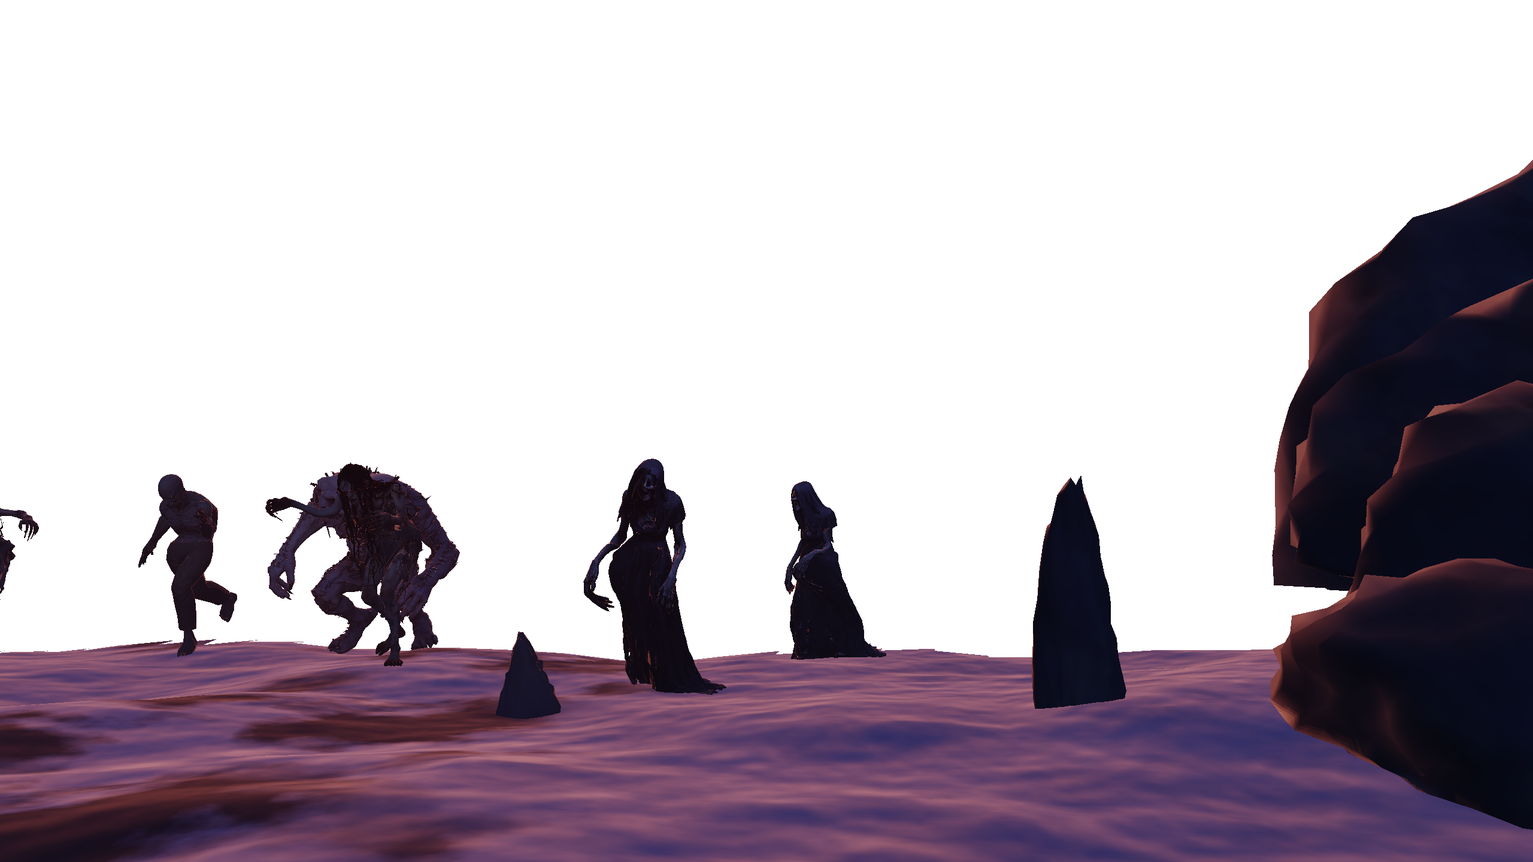
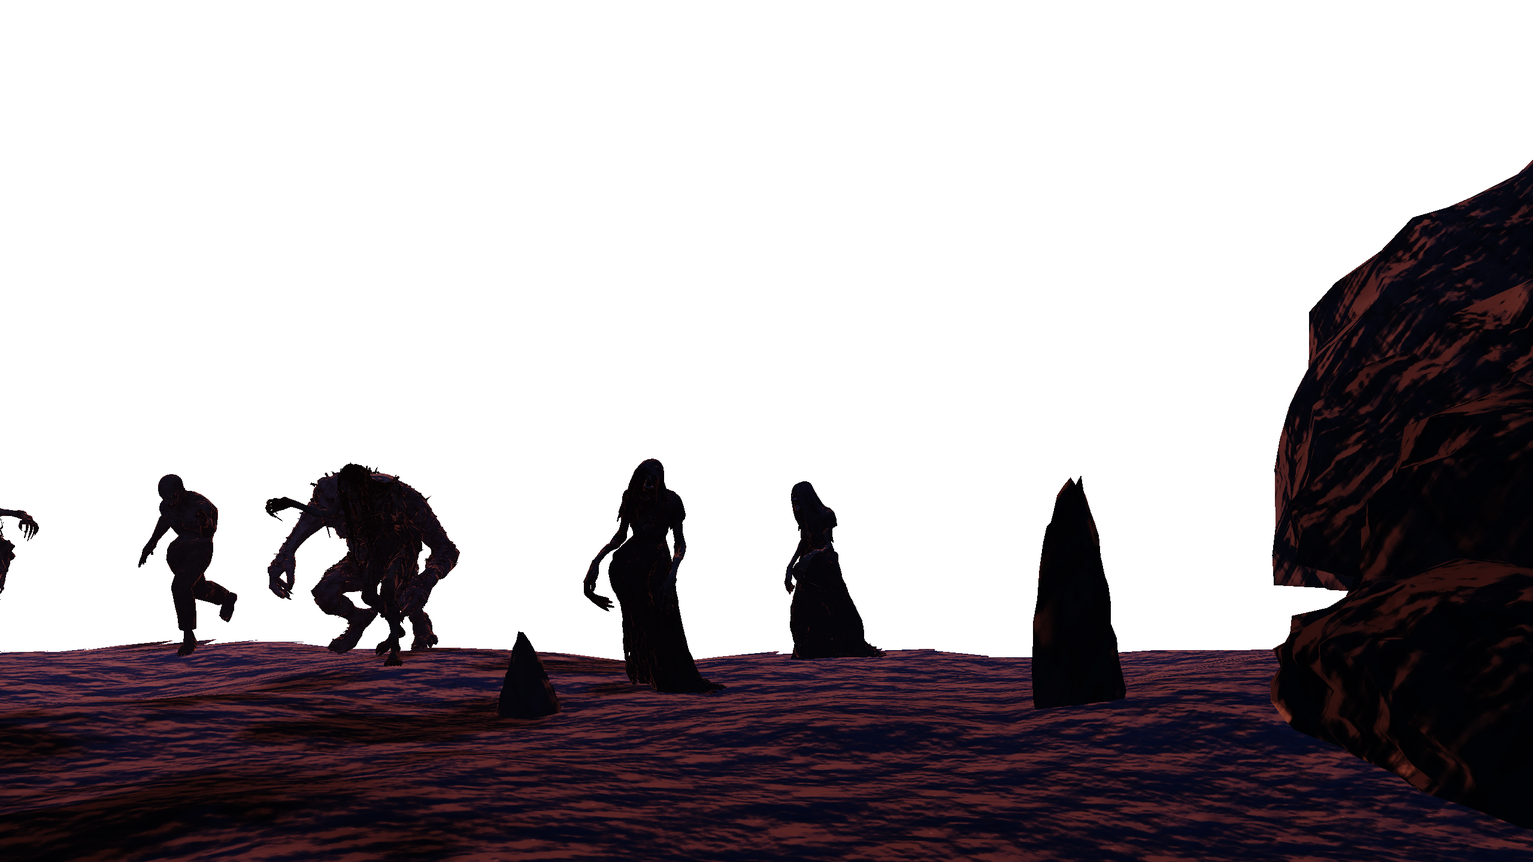
Main menu: ground fog that rolls and churns in three banks, a darker foreground, finer relief and grime on snow, stone and the undead, a quieter moon with craters, moonlight across the range, the Milky Way and many more stars (twinkling), shooting stars, forked lightning striking the far peaks; spel
Claude-Session: https://claude.ai/code/session_01XygewZTgx3ZFWTg4ffda8j

diff --git a/src/Hud.cpp b/src/Hud.cpp
@@ -1104,6 +1104,7 @@ float4 main(float4 pos : SV_POSITION, float4 col : COLOR0, float2 uv : TEXCOORD0
 		ID3D11ShaderResourceView* g_mFar = nullptr;
 		ID3D11ShaderResourceView* g_mMid = nullptr;
 		ID3D11ShaderResourceView* g_mNear = nullptr;
+		ID3D11ShaderResourceView* g_mGroundFog = nullptr;  // fog wisps that tile left-right (tools/menuscene.py ground_fog)
 		constexpr float kMenuRune[2] = { 1812.0f, 992.0f };  // the middle of the rune-stone's face in the painting
 		constexpr float kMenuArch[2] = { 1176.0f, 455.0f };  // the barrow door
 		ID3D11ShaderResourceView* g_mTitle = nullptr;
@@ -1227,8 +1228,63 @@ float4 main(float4 pos : SV_POSITION, float4 col : COLOR0, float2 uv : TEXCOORD0
 			{
 				const ImVec2 m = toScreen(0.2f, 0.255f * 2560, 0.315f * 1440);
 				const float  br = 0.5f + 0.5f * std::sin(now * 0.6f);
-				fg->AddCircleFilled(m, 150 * k, IM_COL32(255, 90, 60, static_cast<int>((10 + 8 * br) * fade)), 48);
-				fg->AddCircleFilled(m, 80 * k, IM_COL32(255, 120, 80, static_cast<int>((10 + 8 * br) * fade)), 48);
+				fg->AddCircleFilled(m, 130 * k, IM_COL32(255, 90, 60, static_cast<int>((4 + 4 * br) * fade)), 48);
+				fg->AddCircleFilled(m, 72 * k, IM_COL32(255, 120, 80, static_cast<int>((5 + 4 * br) * fade)), 48);
+			}
+			// the brightest stars twinkle, and now and then a shooting star crosses the sky
+			{
+				struct Star { float x, y, ph, sp, sz; };
+				static std::vector<Star> stars;
+				static std::mt19937 sr{ 23 };
+				std::uniform_real_distribution<float> U(0, 1);
+				if (stars.empty()) {
+					while (stars.size() < 46) {
+						const float x = U(sr), y = 0.02f + 0.40f * U(sr) * U(sr);
+						if (std::hypot((x - 0.255f) * 16.0f / 9.0f, y - 0.315f) < 0.16f || (x > 0.2f && x < 0.8f && y < 0.2f)) {
+							continue;  // clear of the moon and the title
+						}
+						stars.push_back({ x, y, U(sr) * 6.28f, 0.8f + 2.6f * U(sr), 0.7f + 1.3f * U(sr) * U(sr) });
+					}
+				}
+				for (const auto& st : stars) {
+					const ImVec2 p = toScreen(0.2f, st.x * 2560, st.y * 1440);
+					const float  tw = std::pow(0.5f + 0.5f * std::sin(now * st.sp + st.ph), 3.0f);
+					const float  r = (1.2f + 2.6f * st.sz * tw) * k;
+					const int    al = static_cast<int>((60 + 170 * tw) * fade);
+					fg->AddLine({ p.x - r * 2.2f, p.y }, { p.x + r * 2.2f, p.y }, IM_COL32(205, 220, 255, al / 2), 1.0f * k);
+					fg->AddLine({ p.x, p.y - r * 2.2f }, { p.x, p.y + r * 2.2f }, IM_COL32(205, 220, 255, al / 2), 1.0f * k);
+					fg->AddCircleFilled(p, std::max(0.8f * k, r * 0.45f), IM_COL32(235, 240, 255, al), 8);
+				}
+				static float nextShoot = 4.0f, shootT = -1.0f;
+				static ImVec2 s0{}, sd{};
+				if (shootT < 0 && now > nextShoot) {
+					shootT = 0;
+					const float dir = U(sr) < 0.5f ? 1.0f : -1.0f;
+					s0 = { size.x * (0.15f + 0.7f * U(sr)), size.y * (0.04f + 0.18f * U(sr)) };
+					sd = { dir * size.x * (0.22f + 0.12f * U(sr)), size.y * (0.10f + 0.08f * U(sr)) };
+					nextShoot = now + 7.0f + 10.0f * U(sr);
+				}
+				if (shootT >= 0) {
+					shootT += dt;
+					const float life = 0.85f, t = shootT / life;
+					if (t >= 1.0f) {
+						shootT = -1;
+					} else {
+						const float  head = EaseOut(std::min(1.0f, t * 1.15f));
+						const float  bright = std::sin(std::clamp(t, 0.0f, 1.0f) * 3.14159f) * fade;
+						const ImVec2 h{ s0.x + sd.x * head, s0.y + sd.y * head };
+						for (int i = 0; i < 14; ++i) {  // the tail: brightest at the head, fading back
+							const float a0 = head - 0.022f * i, a1 = head - 0.022f * (i + 1);
+							if (a1 < 0) {
+								break;
+							}
+							const int al = static_cast<int>(230 * bright * (1.0f - i / 14.0f));
+							fg->AddLine({ s0.x + sd.x * a0, s0.y + sd.y * a0 }, { s0.x + sd.x * a1, s0.y + sd.y * a1 }, IM_COL32(220, 230, 255, al), (2.2f - 0.12f * i) * k);
+						}
+						fg->AddCircleFilled(h, 4.5f * k, IM_COL32(200, 215, 255, static_cast<int>(60 * bright)), 12);
+						fg->AddCircleFilled(h, 1.8f * k, IM_COL32(255, 255, 255, static_cast<int>(255 * bright)), 8);
+					}
+				}
 			}
 			if (g_mAurora) {
 				for (int band = 0; band < 2; ++band) {
@@ -1237,29 +1293,70 @@ float4 main(float4 pos : SV_POSITION, float4 col : COLOR0, float2 uv : TEXCOORD0
 				}
 			}
 			layer(g_mClouds, 0.25f, IM_COL32(255, 255, 255, static_cast<int>(200 * fade)), { std::fmod(now * 0.0035f, 1.0f), 0 });
-			// a far lightning flash now and then, lighting the clouds from behind the mountains (short, never bright)
+			// lightning: now and then a forked bolt strikes the far range (drawn behind it, so the peaks cut it off), the
+			// clouds flaring with it; it flickers a few times and is gone
 			{
-				static float next = 9.0f, life = 0;
+				static float next = 6.0f, life = 0;
 				static std::mt19937 lr{ 11 };
+				static std::vector<std::vector<ImVec2>> bolt;  // painting pixels: the main channel, then its forks
 				std::uniform_real_distribution<float> L(0, 1);
 				if (now > next && life <= 0) {
-					life = 0.42f;
-					next = now + 11.0f + 12.0f * L(lr);
+					life = 0.55f;
+					next = now + 9.0f + 11.0f * L(lr);
+					bolt.clear();
+					const float x0 = 2560 * (0.40f + 0.52f * L(lr));
+					std::vector<ImVec2> main{ { x0, 1440 * 0.05f } };
+					float x = x0, y = 1440 * 0.05f;
+					while (y < 1440 * 0.47f) {
+						y += 1440 * (0.012f + 0.02f * L(lr));
+						x += (L(lr) - 0.5f) * 70.0f;
+						main.push_back({ x, y });
+						if (L(lr) < 0.16f && bolt.size() < 4) {  // a fork wanders off and dies out
+							std::vector<ImVec2> fork{ { x, y } };
+							float fx = x, fy = y;
+							const float side = L(lr) < 0.5f ? -1.0f : 1.0f;
+							for (int i = 0, n = 3 + static_cast<int>(L(lr) * 5); i < n; ++i) {
+								fy += 1440 * (0.01f + 0.015f * L(lr));
+								fx += side * (14.0f + 40.0f * L(lr));
+								fork.push_back({ fx, fy });
+							}
+							bolt.push_back(std::move(fork));
+						}
+					}
+					bolt.insert(bolt.begin(), std::move(main));
 				}
 				if (life > 0) {
 					life -= dt;
-					const float flick = (life > 0.30f || (life > 0.12f && life < 0.2f)) ? 1.0f : 0.25f;
-					fg->AddRectFilledMultiColor({ 0, 0 }, { size.x, size.y * 0.5f }, IM_COL32(170, 190, 235, static_cast<int>(20 * flick)), IM_COL32(170, 190, 235, static_cast<int>(20 * flick)),
-						IM_COL32(170, 190, 235, 0), IM_COL32(170, 190, 235, 0));
+					const float flick = (life > 0.43f || (life > 0.26f && life < 0.33f) || (life > 0.08f && life < 0.13f)) ? 1.0f : (life > 0 ? 0.18f : 0.0f);
+					fg->AddRectFilledMultiColor({ 0, 0 }, { size.x, size.y * 0.55f }, IM_COL32(170, 190, 240, static_cast<int>(26 * flick * fade)), IM_COL32(170, 190, 240, static_cast<int>(26 * flick * fade)),
+						IM_COL32(170, 190, 240, 0), IM_COL32(170, 190, 240, 0));
+					for (std::size_t b = 0; b < bolt.size(); ++b) {
+						const float w = b == 0 ? 1.0f : 0.55f;
+						for (std::size_t i = 1; i < bolt[b].size(); ++i) {
+							const ImVec2 p0 = toScreen(0.45f, bolt[b][i - 1].x, bolt[b][i - 1].y), p1 = toScreen(0.45f, bolt[b][i].x, bolt[b][i].y);
+							fg->AddLine(p0, p1, IM_COL32(120, 140, 255, static_cast<int>(40 * flick * fade)), 14.0f * w * k);
+							fg->AddLine(p0, p1, IM_COL32(170, 190, 255, static_cast<int>(110 * flick * fade)), 5.0f * w * k);
+							fg->AddLine(p0, p1, IM_COL32(240, 245, 255, static_cast<int>(255 * flick * fade)), 1.8f * w * k);
+						}
+					}
 				}
 			}
 			// the far range, then mist drifting in the valley in front of it
 			layer(g_mFar, 0.45f, white);
-			if (g_menuFog) {
-				const float u0 = now * 0.006f;
-				fg->AddImage(ImTextureID(reinterpret_cast<std::uintptr_t>(g_menuFog)), { 0, size.y * 0.30f }, { size.x, size.y * 0.58f }, { u0, 0 }, { u0 + 1.4f, 0.8f },
-					IM_COL32(120, 135, 175, static_cast<int>(55 * fade)));
-			}
+			// fog rolling over the ground: two copies of the wisps sliding past each other at different speeds, so it
+			// churns as it drifts (valley fog here, ground fog over the slope, a thick bank across the front)
+			auto groundFog = [&](float y0, float y1, float speed, float rep, int al, ImU32 rgb) {
+				ID3D11ShaderResourceView* t = g_mGroundFog ? g_mGroundFog : g_menuFog;
+				if (!t) {
+					return;
+				}
+				const auto tex = ImTextureID(reinterpret_cast<std::uintptr_t>(t));
+				const float u0 = std::fmod(now * speed, 1.0f), u1 = std::fmod(-now * speed * 0.63f + 0.37f, 1.0f);
+				const float bob = std::sin(now * 0.21f) * 0.012f * size.y;
+				fg->AddImage(tex, { 0, y0 + bob }, { size.x, y1 + bob }, { u0, 0 }, { u0 + rep, 1 }, (rgb & 0x00FFFFFF) | (static_cast<ImU32>(al * 0.6f * fade) << 24));
+				fg->AddImage(tex, { 0, y0 - bob * 0.6f + (y1 - y0) * 0.08f }, { size.x, y1 }, { u1, 0 }, { u1 + rep * 0.7f, 1 }, (rgb & 0x00FFFFFF) | (static_cast<ImU32>(al * 0.5f * fade) << 24));
+			};
+			groundFog(size.y * 0.30f, size.y * 0.56f, 0.006f, 1.6f, 120, IM_COL32(120, 135, 175, 0));
 			// the barrow ridge and the horde coming down it; the champions' violet light in the barrow door breathing
 			layer(g_mMid, 0.8f, white);
 			{
@@ -1268,13 +1365,9 @@ float4 main(float4 pos : SV_POSITION, float4 col : COLOR0, float2 uv : TEXCOORD0
 				fg->AddCircleFilled(a, 90 * k, IM_COL32(150, 80, 255, static_cast<int>(10 * br * fade)), 40);
 			}
 			// ground mist rolling between the horde and the front
-			if (g_menuFog) {
-				const float u0 = -now * 0.008f;
-				fg->AddImage(ImTextureID(reinterpret_cast<std::uintptr_t>(g_menuFog)), { 0, size.y * 0.50f }, { size.x, size.y * 0.80f }, { u0, 0.1f }, { u0 + 1.1f, 0.9f },
-					IM_COL32(110, 125, 165, static_cast<int>(70 * fade)));
-			}
+			groundFog(size.y * 0.42f, size.y * 0.82f, 0.009f, 1.2f, 150, IM_COL32(110, 122, 160, 0));
 			// the front: the rune-stone (its runes pulse, a soft violet light on the snow), the graves, the outcrop
-			layer(g_mNear, 1.25f, white);
+			layer(g_mNear, 1.25f, IM_COL32(215, 215, 222, static_cast<int>(255 * fade)));  // the front sits in shadow
 			{
 				// the runes cut down its face, lit from within: each glows up in turn, the light spilling onto the snow
 				const ImVec2 r = toScreen(1.25f, kMenuRune[0], kMenuRune[1]);
@@ -1296,11 +1389,7 @@ float4 main(float4 pos : SV_POSITION, float4 col : COLOR0, float2 uv : TEXCOORD0
 					}
 				}
 			}
-			if (g_menuFog) {  // near mist, the other way
-				const float u0 = now * 0.004f;
-				fg->AddImage(ImTextureID(reinterpret_cast<std::uintptr_t>(g_menuFog)), { 0, size.y * 0.74f }, { size.x, size.y }, { u0, 0 }, { u0 + 0.9f, 0.7f },
-					IM_COL32(100, 115, 150, static_cast<int>(80 * fade)));
-			}
+			groundFog(size.y * 0.66f, size.y * 1.02f, 0.013f, 0.9f, 170, IM_COL32(88, 98, 130, 0));  // the thick bank across the front, darker
 			// snow and grave-ash drifting down on the wind, a few soul-motes rising from the rune-stone
 			{
 				struct Mote { float x, y, sp, sway, ph, r; int kind; };
@@ -1820,7 +1909,7 @@ float4 main(float4 pos : SV_POSITION, float4 col : COLOR0, float2 uv : TEXCOORD0
 			const bool bg = SUCCEEDED(DirectX::CreateWICTextureFromFile(g_device, L"Data\\Interface\\UndyingNights\\menu_bg.png", nullptr, &g_menuBg));
 			DirectX::CreateWICTextureFromFile(g_device, L"Data\\Interface\\UndyingNights\\menu_fog.png", nullptr, &g_menuFog);
 			for (auto [file, tex] : { std::pair{ L"menu_sky.jpg", &g_mSky }, { L"menu_clouds.png", &g_mClouds }, { L"menu_aurora.png", &g_mAurora },
-					 { L"menu_far.png", &g_mFar }, { L"menu_mid.png", &g_mMid }, { L"menu_near.png", &g_mNear } }) {
+					 { L"menu_far.png", &g_mFar }, { L"menu_mid.png", &g_mMid }, { L"menu_near.png", &g_mNear }, { L"menu_groundfog.png", &g_mGroundFog } }) {
 				DirectX::CreateWICTextureFromFile(g_device, (std::wstring(L"Data\\Interface\\UndyingNights\\") + file).c_str(), nullptr, tex);
 			}
 			DirectX::CreateWICTextureFromFile(g_device, L"Data\\Interface\\UndyingNights\\menu_title.png", nullptr, &g_mTitle);

diff --git a/tools/menupaint.py b/tools/menupaint.py
@@ -65,16 +65,32 @@ def sky():
     col = top + (mid - top) * smooth(0.0, 0.55, v)[..., None] + (low - mid) * smooth(0.45, 0.85, v)[..., None]
     # moon glow: a wide red-orange bloom, a tight halo ring
     d = np.sqrt((xx - MOON[0]) ** 2 + (yy - MOON[1]) ** 2) / MOON_R
-    bloom = np.exp(-((d - 0.0) / 9.0) ** 2) * 0.55 + np.exp(-((d - 0.0) / 3.2) ** 2) * 0.5
-    ring = np.exp(-((d - 2.35) / 0.18) ** 2) * 0.08
+    bloom = np.exp(-((d - 0.0) / 7.0) ** 2) * 0.22 + np.exp(-((d - 0.0) / 2.4) ** 2) * 0.26   # a quieter glow (Noah: less shine)
+    ring = np.exp(-((d - 2.35) / 0.18) ** 2) * 0.04
     col = col + (bloom[..., None] * np.array([0.33, 0.10, 0.06])) + ring[..., None] * np.array([0.9, 0.5, 0.4])
-    # stars, fewer near the moon and the horizon
-    st = R.random((H, W))
-    mask = (st > 0.9993) * smooth(0.75, 0.2, v) * smooth(3.0, 9.0, d)
-    stars = np.asarray(Image.fromarray((mask * 255).astype(np.uint8)).filter(ImageFilter.GaussianBlur(0.6)), np.float32) / 255 * 2.2
-    tw = R.random((H, W)) > 0.99985
-    big = np.asarray(Image.fromarray((tw * smooth(0.7, 0.2, v) * smooth(4, 10, d) * 255).astype(np.uint8)).filter(ImageFilter.GaussianBlur(1.4)), np.float32) / 255 * 5
-    col = col + (stars + big)[..., None] * np.array([0.85, 0.9, 1.0])
+    # the Milky Way: a faint band of dust and light slanting across the sky, dark lanes through it
+    band_c = 0.20 + 0.55 * (xx / W)                                                       # its centre line (v) along x
+    bd = np.exp(-((v - band_c * 0.62) / 0.11) ** 2) * smooth(0.8, 0.25, v) * smooth(2.5, 7.0, d)
+    dust = fbm(H, W, 7, 6, seed=71); lanes = smooth(0.42, 0.62, fbm(H, W, 6, 10, seed=72))
+    col = col + (bd * (0.35 + 0.65 * dust) * (1 - 0.7 * lanes))[..., None] * np.array([0.050, 0.055, 0.080])
+    # stars in every size and colour, many more inside the band, fewer by the moon and the horizon
+    vis = smooth(0.78, 0.2, v) * smooth(3.0, 9.0, d)
+    stars = np.zeros((H, W, 3), np.float32)
+    tints = np.array([[0.75, 0.85, 1.0], [1.0, 1.0, 1.0], [1.0, 0.92, 0.75], [1.0, 0.75, 0.6]])
+    for mag, (dens, blur, gain) in enumerate(((0.0011, 0.45, 0.8), (0.0004, 0.6, 1.7), (0.00018, 0.9, 3.2), (0.00003, 1.4, 6.0))):
+        m = (R.random((H, W)) < dens * (1 + 2.5 * bd)) * vis
+        g = np.asarray(Image.fromarray((m * 255).astype(np.uint8)).filter(ImageFilter.GaussianBlur(blur)), np.float32) / 255 * gain
+        tint = tints[R.integers(0, 4, (H, W))]
+        stars += g[..., None] * tint
+    # the brightest few with a soft cross of light
+    for _ in range(14):
+        sx_, sy_ = R.uniform(0.04, 0.96) * W, R.uniform(0.03, 0.42) * H
+        if np.hypot(sx_ - MOON[0], sy_ - MOON[1]) < MOON_R * 6:
+            continue
+        dx_, dy_ = np.abs(xx - sx_), np.abs(yy - sy_)
+        spk = (np.exp(-dy_ / 0.8) * np.exp(-dx_ / 14) + np.exp(-dx_ / 0.8) * np.exp(-dy_ / 14)) * 0.9 + np.exp(-(dx_ ** 2 + dy_ ** 2) / 5.0) * 2.5
+        stars += spk[..., None] * tints[R.integers(0, 3)]
+    col = col + stars * np.array([0.85, 0.9, 1.0])
     # cloud banks: fbm, thicker low, lit on the moon side (simple self-shadow: compare with a copy shifted toward the moon)
     n = fbm(H, W, 7, 3, seed=5)
     n2 = fbm(H, W, 5, 6, seed=9)
@@ -88,8 +104,19 @@ def sky():
     # the moon itself: a crimson disc with mottled maria, limb darkening, a soft edge
     m = np.clip(1.2 - d, 0, 1); disc = smooth(1.02, 0.98, d)
     mar = fbm(H, W, 5, 24, seed=21)
-    face = np.array([0.95, 0.42, 0.26]) * (0.72 + 0.28 * smooth(0.35, 0.65, mar))[..., None] * (0.55 + 0.45 * np.sqrt(np.clip(1 - d ** 2, 0, 1)))[..., None]
-    face = face + np.array([0.25, 0.15, 0.1]) * smooth(0.6, 0.0, d)[..., None]
+    mar2 = fbm(H, W, 6, 60, seed=22)
+    face = np.array([0.95, 0.42, 0.26]) * (0.62 + 0.26 * smooth(0.35, 0.65, mar) + 0.18 * (mar2 - 0.5))[..., None] * (0.50 + 0.50 * np.sqrt(np.clip(1 - d ** 2, 0, 1)))[..., None]
+    # craters: dark floors, a bright rim on the lit (lower right) side, a few rays from the biggest
+    cr = np.zeros((H, W), np.float32)
+    rr = np.random.default_rng(23)
+    for _ in range(20):
+        ca = rr.uniform(0, 2 * np.pi); cd = np.sqrt(rr.uniform(0, 0.85)); csz = rr.uniform(0.04, 0.16) * (1.3 if rr.random() < 0.15 else 1)
+        cx_, cy_ = MOON[0] + np.cos(ca) * cd * MOON_R, MOON[1] + np.sin(ca) * cd * MOON_R
+        q = np.sqrt((xx - cx_) ** 2 + (yy - cy_) ** 2) / (csz * MOON_R)
+        side = ((xx - cx_) + (yy - cy_)) / (csz * MOON_R + 1e-3)
+        cr += -0.10 * smooth(1.0, 0.2, q) + 0.08 * np.exp(-((q - 1.0) / 0.25) ** 2) * np.clip(side, 0, 1)
+    face = face * (1 + cr * disc)[..., None]
+    face = face + np.array([0.18, 0.10, 0.07]) * smooth(0.6, 0.0, d)[..., None]
     col = col * (1 - disc[..., None]) + face * disc[..., None]
     # a thin cloud bar across the moon's lower half
     bar = smooth(0.62, 0.8, fbm(H, W, 5, 10, seed=33)) * np.exp(-((yy - (MOON[1] + MOON_R * 0.35)) / (MOON_R * 0.25)) ** 2) * smooth(2.2, 0.0, d)
@@ -128,7 +155,7 @@ def range_layer(seed, base_y, amp, octs, rough, haze, snow=0.0, ridged=True, xsc
     top = base_y - prof * amp
     a = smooth(top - 1.5, top + 1.5, yy)
     # surface detail: ridged noise as a height field, its x-gradient as the light
-    hf = fbm(H, W, 7, int(12 * xscale), seed=seed + 1, ridged=True)
+    hf = fbm(H, W, 9, int(12 * xscale), seed=seed + 1, ridged=True)
     gx = np.gradient(hf, axis=1) * 60 + np.gradient(hf, axis=0) * 25
     light = np.clip(0.45 - gx * rough, 0, 1)
     depth = np.clip((yy - top) / (amp * 1.2 + 1), 0, 1)
@@ -136,8 +163,15 @@ def range_layer(seed, base_y, amp, octs, rough, haze, snow=0.0, ridged=True, xsc
     if snow > 0:
         sn = smooth(0.45, 0.6, hf + (1 - depth) * snow * 0.6) * (1 - depth) ** 1.5
         rock = rock * (1 - sn[..., None]) + (np.array([0.42, 0.44, 0.52]) * (0.35 + 0.95 * light)[..., None] + np.array([0.12, 0.04, 0.02]) * light[..., None]) * sn[..., None]
+    # the moon's light across the range: faces turned up-left take a red-gold wash, strongest under the moon
+    under = np.exp(-((xx - MOON[0]) / (W * 0.30)) ** 2) * 0.75 + 0.25
+    moonlit = np.clip(-gx * rough * 1.6, 0, 1) * (1 - depth) ** 0.8 * under
+    rock = rock + moonlit[..., None] * MOONLIGHT * 0.55
+    # strata and scree: finer detail in the rock and snow
+    st = fbm(H, W, 6, int(40 * xscale), seed=seed + 7)
+    rock = rock * (0.82 + 0.36 * st)[..., None]
     # rim light along the crest from the moon side
-    rim = np.exp(-((yy - top) / 3.0) ** 2) * smooth(0.0, 1.0, light)
+    rim = np.exp(-((yy - top) / 3.0) ** 2) * smooth(0.0, 1.0, light) * (0.6 + 0.8 * under)
     rock = rock + rim[..., None] * np.array([0.35, 0.16, 0.12])
     # haze: stronger lower down (fog pooling in the valleys)
     hz = np.clip(haze + depth * 0.35, 0, 0.95)

diff --git a/tools/menuscene.py b/tools/menuscene.py
@@ -121,6 +121,33 @@ def stone(pw):
     snowcap = np.clip((n2 - 0.35) * 3, 0, 1) * 0.0
     return c
 
+NT3 = noise_tex(1024, 17, beta=2.1)   # detail noise: grit, pores, cracks (smooth enough not to sparkle)
+
+
+def relief(scale, amp, grime=0.0, sparkle=0.0, crack=0.0):
+    """surface detail in world space: a bump from layered noise (its gradient tilts the normal), grime darkening the
+    hollows, ice glints on snow, dark crack lines on stone"""
+    def h(p):
+        x, y, z = p[..., 0], p[..., 1], p[..., 2]
+        return (sample(NT3, x + z * 0.61, y - z * 0.47, scale) * 0.6 + sample(NT, x * 1.9 - z * 0.8, y * 1.9 + z * 0.9, scale * 1.7) * 0.4)
+    def f(pw, nv, alb):
+        e = scale * 0.05
+        h0 = h(pw)
+        g = np.stack([(h(pw + np.array([e, 0, 0])) - h0) / e, (h(pw + np.array([0, e, 0])) - h0) / e, (h(pw + np.array([0, 0, e])) - h0) / e], -1)
+        g = g - (g * nv).sum(-1, keepdims=True) * nv
+        n2 = nv - g * (scale * amp)
+        n2 = n2 / (np.linalg.norm(n2, axis=-1, keepdims=True) + 1e-9)
+        a2 = alb * (1 - grime + grime * 2 * np.clip(h0, 0, 1))[..., None]
+        if crack > 0:
+            c = np.abs(sample(NT3, pw[..., 0] + pw[..., 2], pw[..., 1] - pw[..., 2] * 0.3, scale * 3.0) - 0.5)
+            a2 = a2 * (1 - crack * np.clip(1 - c / 0.025, 0, 1))[..., None]
+        if sparkle > 0:
+            gl = np.clip((sample(NT3, pw[..., 0] * 2.3, pw[..., 1] * 2.3, scale) - 0.965) * 25, 0, 1)
+            a2 = a2 + sparkle * gl[..., None]
+        return n2, a2
+    return f
+
+
 MTN = None
 def far_mountains(sc):
     global MTN
@@ -153,7 +180,7 @@ def build():
     T = np.r_[np.c_[a_, b_, c_], np.c_[a_, c_, d_]]
     cy = V[T].mean(1)[:, 1]
     for it, lay in ((sc.add(V, T[cy < 760], UV, proc=snow), 'near'), (sc.add(V, T[cy >= 700], UV, proc=snow), 'mid')):
-        it.layer = lay; it.nfun = ground_n
+        it.layer = lay; it.nfun = ground_n; it.detail = relief(60, 0.22, grime=0.08, sparkle=0.35)
     rng = np.random.default_rng(31)
     # the barrow: an arch of standing slabs on the ridge, a lintel, a broken capstone, stones round it
     ax, ay = -560.0, 2650.0; az = float(ground_h(np.array(ax), np.array(ay)))
@@ -163,14 +190,15 @@ def build():
         V = V @ Rm.T
         z = float(ground_h(np.array(x), np.array(y)))
         it = sc.add(V + np.array([x, y, z + sz * 0.2 - 4]), T, UV, proc=stone); it.layer = layer
+        it.detail = relief(90, 0.55, grime=0.35, crack=0.45)
         return it
     s1 = slab(1, ax - 190, ay, 62, 52, 290, 8, (0, -3))
     s2 = slab(2, ax + 190, ay + 20, 64, 54, 300, -6, (0, 4))
     top = min(s1.V[:, 2].max(), s2.V[:, 2].max()) - az - 12
     lin = S.rock_mesh(3, 290, 60, 50, sub=3, rough=0.5)
-    sc.add(lin[0] + np.array([ax, ay + 10, az + top + 10]), lin[1], lin[2], proc=stone).layer = 'mid'
+    _it = sc.add(lin[0] + np.array([ax, ay + 10, az + top + 10]), lin[1], lin[2], proc=stone); _it.layer = 'mid'; _it.detail = relief(90, 0.55, grime=0.35, crack=0.45)
     cap = S.rock_mesh(4, 110, 60, 56, sub=2)
-    sc.add(cap[0] @ S.rot((0, 1, 0), 25).T + np.array([ax - 50, ay + 10, az + top + 62]), cap[1], cap[2], proc=stone).layer = 'mid'
+    _it = sc.add(cap[0] @ S.rot((0, 1, 0), 25).T + np.array([ax - 50, ay + 10, az + top + 62]), cap[1], cap[2], proc=stone); _it.layer = 'mid'; _it.detail = relief(90, 0.55, grime=0.35, crack=0.45)
     for i, (dx, dy, hh) in enumerate([(-420, 60, 160), (-300, -40, 110), (340, -30, 150), (470, 80, 200), (620, 0, 100), (-600, 140, 120)]):
         slab(10 + i, ax + dx, ay + dy, 36 + rng.uniform(-6, 8), 30, hh, rng.uniform(-30, 30), (rng.uniform(-6, 6), rng.uniform(-8, 8)))
     # the rune-stone of the Dirge, in front, with glowing runes (a separate emissive strip down its face)
@@ -212,6 +240,7 @@ def build():
         sc.add_model(m, posed, S.place(x, y, z - 2, yaw, scale), emit=emit)
         for it in sc.items[n0:]:
             it.layer = layer
+            it.detail = relief(22, 0.3, grime=0.3)   # rot, grit and torn skin over the model's own maps
     # champions: the lich in the barrow door, staff raised; the knight and the king leading the horde down the ridge
     put('lich', 'lich', ax + 10, ay - 40, 190, 1.15)
     put('knight', 'knight', -360, 1650, 200, 1.12)
@@ -258,6 +287,8 @@ def shade(sc, layer, D, G, camv, sm, rw, rh):
     mie = np.clip((-V * MOON_DIR).sum(-1), 0, 1) ** 8
     fc = FOG_C + np.array([0.26, 0.07, 0.04]) * mie[..., None]
     col = col * (1 - fog[..., None]) + fc * fog[..., None]
+    if layer == 'near':  # the foreground sits in shadow: darker the closer it is, so the eye goes to the horde
+        col = col * (0.28 + 0.72 * np.clip((dist - 300) / 1400, 0, 1) ** 1.3)[..., None]
     col = tonemap(col)
     return np.where(hit[..., None], col, 0), hit.astype(np.float32)
 
@@ -308,12 +339,26 @@ def post(col, a, size, G=None):
     return Image.fromarray((np.clip(np.dstack([C2, A2]), 0, 1) * 255).astype(np.uint8), 'RGBA')
 
 
+def ground_fog(w=1024, h=256):
+    """the fog that rolls over the ground: wisps that tile left-right (the menu scrolls two copies against each other),
+    thin at the top edge, thick low down"""
+    a1 = noise_tex(1024, 91, beta=2.2); a2 = noise_tex(1024, 92, beta=1.7)
+    x = np.arange(w)[None, :] / w; y = np.arange(h)[:, None] / h
+    n = sample(a1, x * 1024 * 1, y * 1024 * 0.25 + 0 * x, 1024) * 0.65 + sample(a2, x * 1024 * 3, y * 1024 * 0.8, 1024) * 0.35
+    wisps = np.clip((n - 0.30) / 0.45, 0, 1) ** 1.4
+    prof = np.clip(y / 0.45, 0, 1) ** 1.6 * (0.75 + 0.25 * np.clip((y - 0.45) / 0.55, 0, 1))
+    a = np.clip(wisps * prof * 1.15, 0, 1)
+    rgb = np.ones((h, w, 3), np.float32) * np.array([0.78, 0.82, 0.92])
+    return Image.fromarray((np.dstack([rgb, a[..., None] * np.ones((h, w, 1))]) * 255).astype(np.uint8)[..., :4], 'RGBA')
+
+
 def main():
     OUT.mkdir(parents=True, exist_ok=True)
     sky = MP.sky()
     Image.fromarray((np.clip(MP.grain(sky), 0, 1) * 255).astype(np.uint8)).save(OUT / 'menu_sky.jpg', quality=92)
     cv, ca = MP.clouds_veil(); MP.to_img(cv, ca).save(OUT / 'menu_clouds.png')
     ar, aa = MP.aurora(); MP.to_img(ar, aa).resize((1280, 720), Image.LANCZOS).save(OUT / 'menu_aurora.png')
+    ground_fog().save(OUT / 'menu_groundfog.png')
     layers, glow = render_layers()
     far_rgb, far_a, _ = MP.range_layer(61, H * 0.47, H * 0.20, 7, 1.0, 0.55, snow=1.0)
     farther_rgb, farther_a, _ = MP.range_layer(62, H * 0.42, H * 0.16, 6, 0.8, 0.72, snow=1.0, xscale=1.6)

diff --git a/tools/scene3d.py b/tools/scene3d.py
@@ -280,6 +280,8 @@ class Scene:
                             tn = it.normal[ty, tx, :3] * 2 - 1
                             nv = tn[..., 0:1] * T_ - tn[..., 1:2] * B_ + tn[..., 2:3] * nv
                             nv /= np.linalg.norm(nv, axis=-1, keepdims=True) + 1e-9
+                    if getattr(it, 'detail', None) is not None:  # fine surface relief and grime laid over (menuscene)
+                        nv, alb = it.detail(p0[..., None] * it.V[a] + p1[..., None] * it.V[b] + p2[..., None] * it.V[c], nv, alb)
                     em = np.zeros_like(alb)
                     if it.glow is not None:
                         th, tw_ = it.glow.shape[:2]
